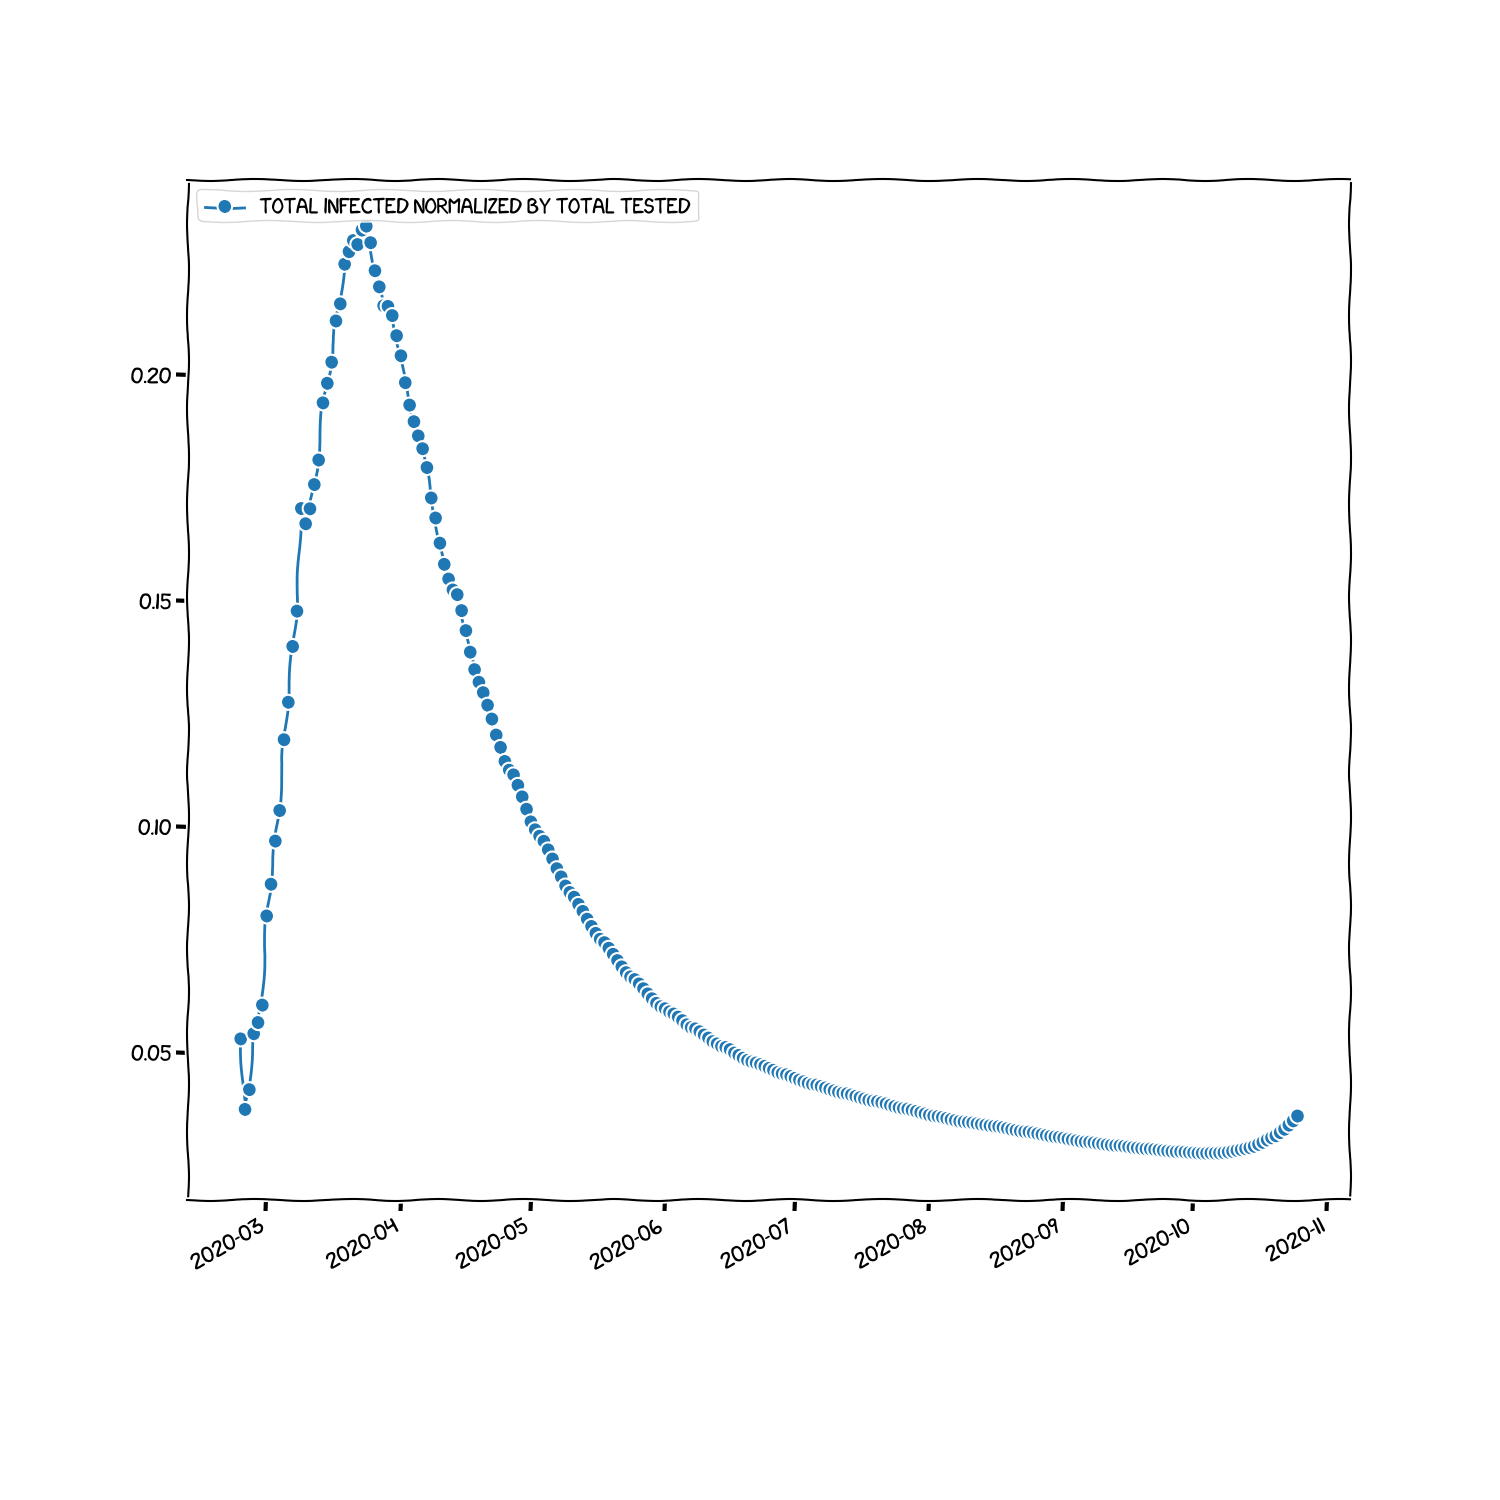
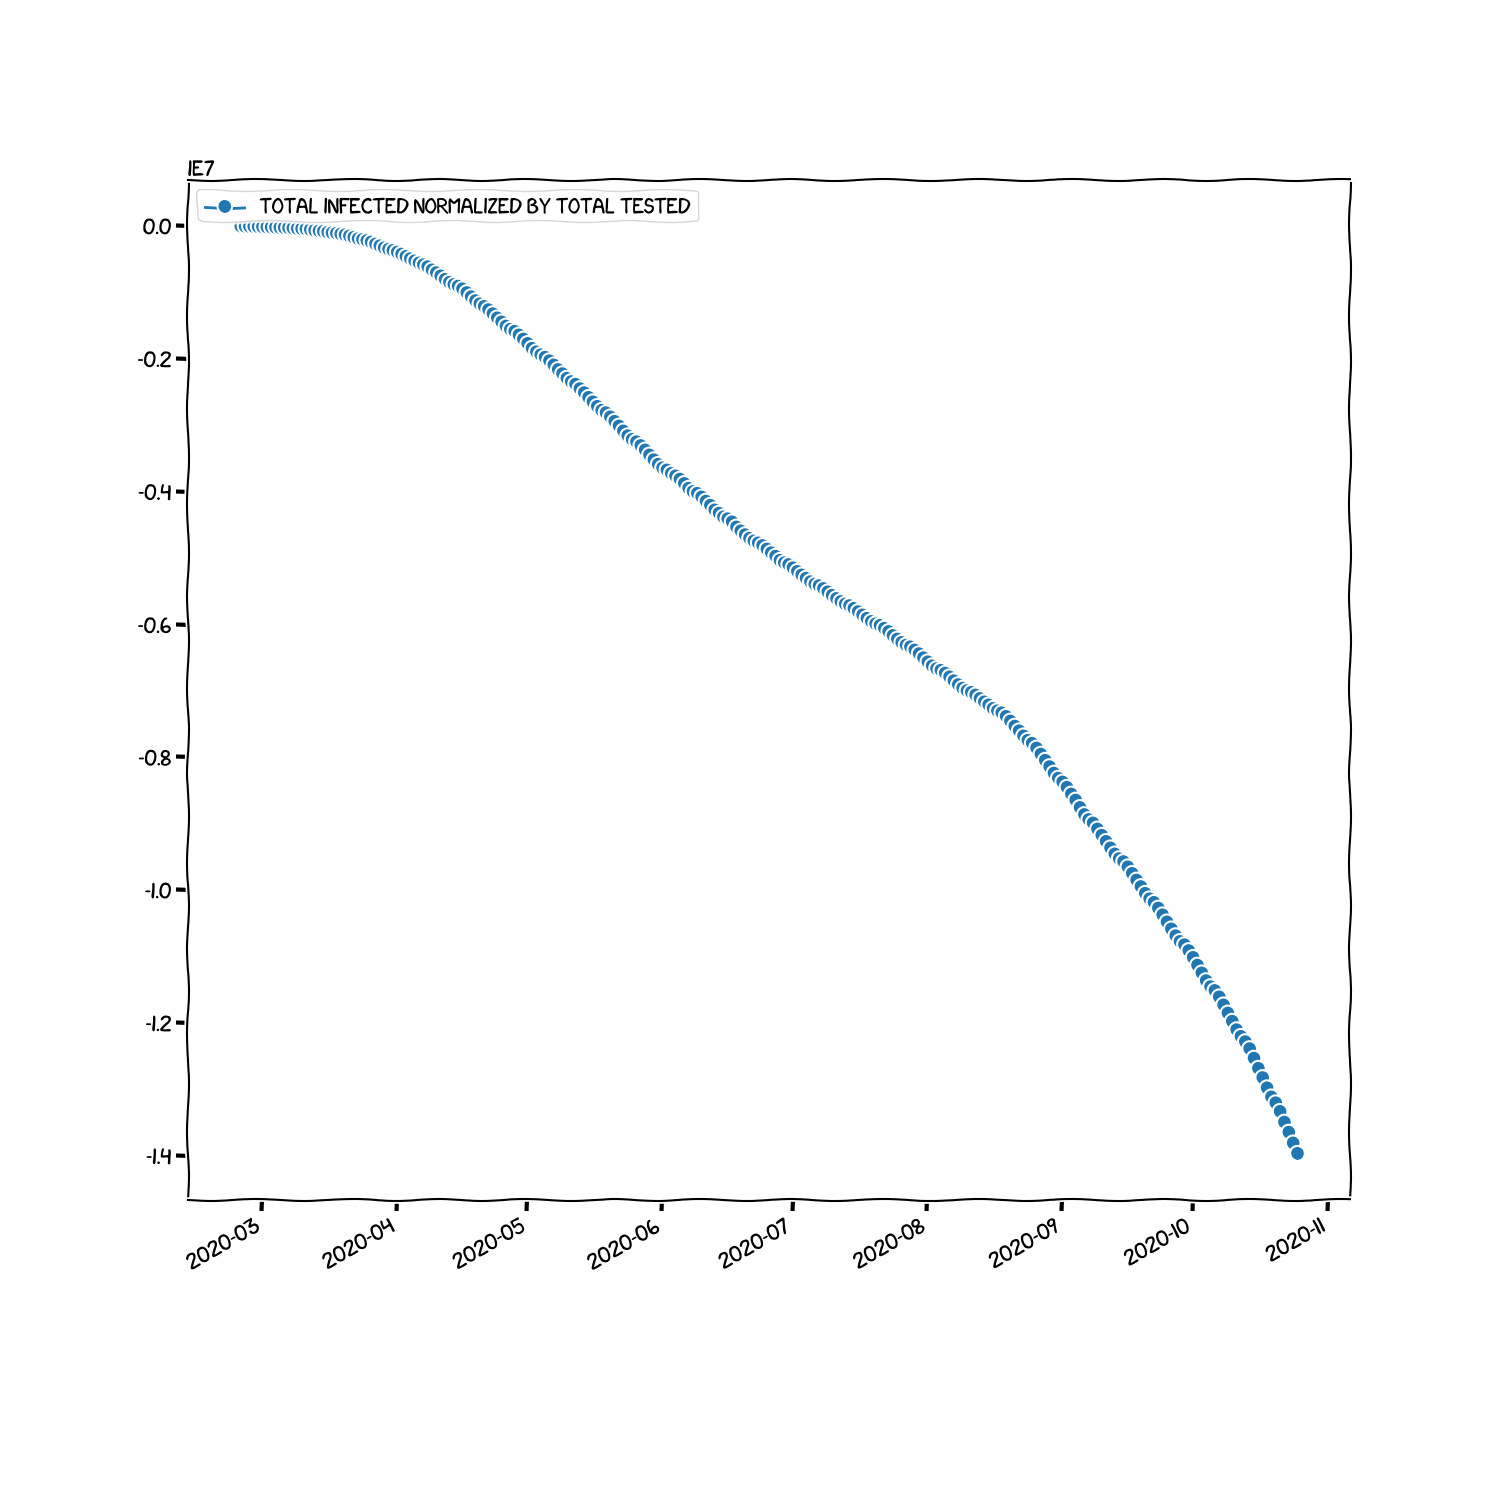
update 2020-10-25

diff --git a/main.py b/main.py
@@ -41,7 +41,7 @@ if __name__ == '__main__':
     growth_rate = (infected[1:] - infected[:-1]) / infected[:-1]
     avg_growth_rate = moving_average(growth_rate, 5)
 
-    infected_norm = infected / tested
+    infected_norm = infected[1:] - infected[:-1] / tested[1:] - tested[:-1]
 
     # x = (1 + growth_rate)^t
     # log(x) = t * log(1 + growth_rate)
@@ -64,6 +64,7 @@ if __name__ == '__main__':
                 f"(*{dead[-1] - dead[-2]}*)\n")
         f.write(f"\n*Total number of tested individuals is {tested[-1]} (+"
                 f"{tested[-1] - tested[-2]})*\n")
+        f.write(f"\n*Infected / Tested ratio is {infected_norm[-1]}")
         f.write("***\n")
         f.write(
             f"##### Current number of infected individuals is {currently_infected[-1]} (+{currently_infected[-1] - currently_infected[-2]})\n")
@@ -132,7 +133,7 @@ if __name__ == '__main__':
     with plt.xkcd():
         fig, ax = plt.subplots(nrows=1, ncols=1, figsize=(15, 15))
         fig.autofmt_xdate()
-        ax.plot(dates, infected_norm, 'o-', label='total infected normalized by total tested')
+        ax.plot(dates[1:], infected_norm, 'o-', label='total infected normalized by total tested')
         ax.legend(loc='upper left')
         plt.savefig('report/infected_normalized.png')
 

diff --git a/report/report.md b/report/report.md
@@ -11,7 +11,8 @@ Infected | Recovered | Dead
 *(19059*) | *(2086*) | (*128*)
 
 *Total number of tested individuals is 14654002 (+161880)*
-***
+
+*Infected / Tested ratio is -13966340.03442807***
 ##### Current number of infected individuals is 222241 (+19059)
 hospitalized | in ICU | home isolation
 :---: | :---: | :---:
